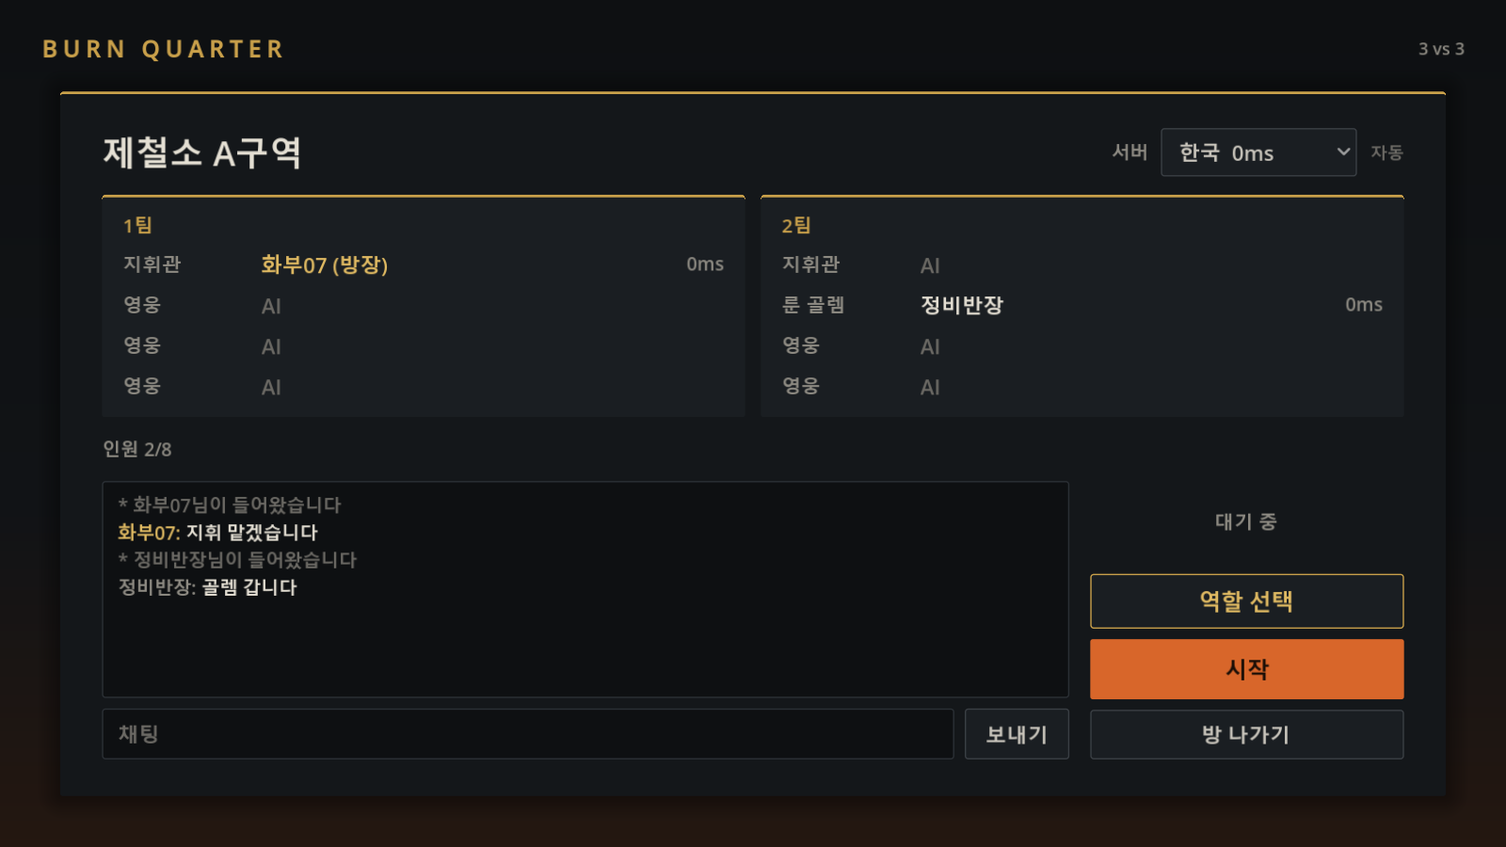
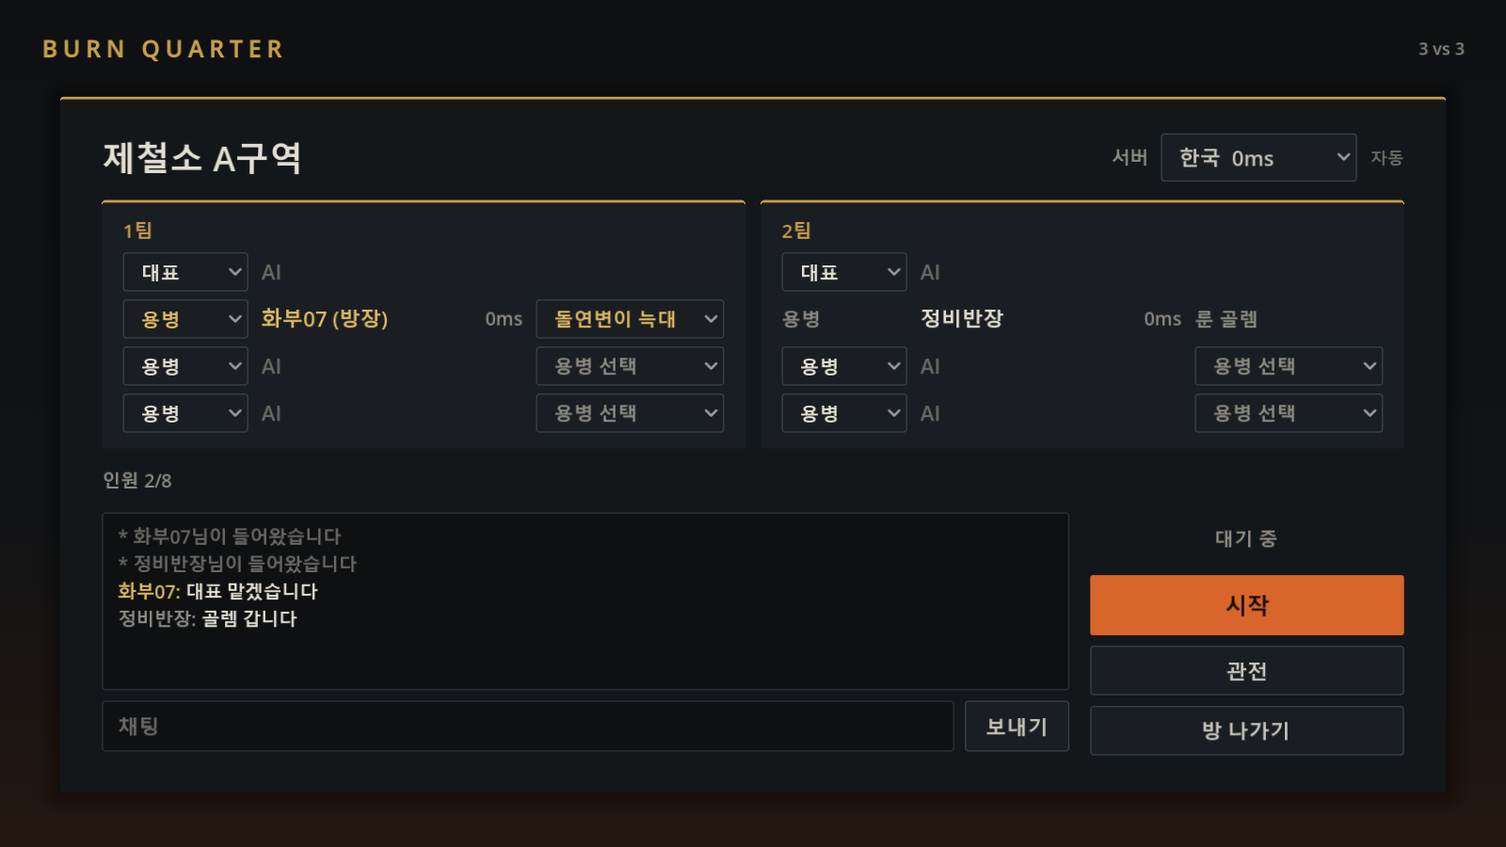
Pick 대표 or 용병 and the hero on each seat row in the room
The role menu under the chat is gone. Each seat row now has a role
picker on the left (대표 = commander, one per team; 용병 = hero) and,
on hero rows, a hero picker on the right that greys out heroes a
teammate already holds. Rows another guest holds show plain labels.
Leaving a seat is 비우기 in one's own row and spectating is a button.

diff --git a/lobby/Room.cs b/lobby/Room.cs
@@ -2,22 +2,21 @@ using Godot;
 using System.Collections.Generic;
 using System.Linq;
 
-// One room: four seats per team, [역할 선택] to take a role, chat, the host's server choice and
-// start. Seats nobody took are played by the AI.
+// One room: four seats per team. Each row picks its role on the left (대표 = commander, one per
+// team; 용병 = hero) and, on hero rows, which hero on the right. Chat, the host's server choice and
+// start sit below. Seats nobody took are played by the AI.
 public partial class Room : Control
 {
     private static readonly uint[] Heroes = { UnitCatalog.HeroTest, UnitCatalog.HeroGolem, UnitCatalog.HeroMarshal };
     private static readonly Color Muted = LobbyPalette.Muted, Faint = LobbyPalette.Faint, Accent = LobbyPalette.BrassLight, Warn = LobbyPalette.Ember;
-    private const int SpectatorItem = 100, StandItem = 101;
+    private const int CommanderItem = 0, HeroItem = 1, StandItem = 2;
     private MatchSession _session;
     private Label _title, _status, _waiting, _regionHint;
     private OptionButton _region;
-    private MenuButton _choose;
-    private Button _start, _leave, _rejoin, _send;
-    private PopupMenu _roles;
+    private Button _spectate, _start, _leave, _rejoin, _send;
     private RichTextLabel _chat;
     private LineEdit _chatInput;
-    private readonly List<(Label role, Label name, Label ping)>[] _seatRows = { new(), new() };
+    private readonly List<SeatRow>[] _seatRows = { new(), new() };
     private int _renderedChat;
     private bool _transitioning, _autoPicked, _autoStarted, _updatingRegion;
 
@@ -61,7 +60,7 @@ public partial class Room : Control
         var chatBox = new VBoxContainer { SizeFlagsHorizontal = SizeFlags.ExpandFill };
         chatBox.AddThemeConstantOverride("separation", 8);
         var chatPanel = new PanelContainer { ThemeTypeVariation = "FieldPanel" };
-        _chat = new RichTextLabel { BbcodeEnabled = false, ScrollFollowing = true, CustomMinimumSize = new Vector2(0, 150), SelectionEnabled = true };
+        _chat = new RichTextLabel { BbcodeEnabled = false, ScrollFollowing = true, CustomMinimumSize = new Vector2(0, 120), SelectionEnabled = true };
         _chat.AddThemeFontSizeOverride("normal_font_size", 14);
         chatPanel.AddChild(_chat);
         chatBox.AddChild(chatPanel);
@@ -82,20 +81,17 @@ public partial class Room : Control
             CustomMinimumSize = new Vector2(240, 40), SizeFlagsVertical = SizeFlags.ExpandFill };
         _status.AddThemeFontSizeOverride("font_size", 15);
         actions.AddChild(_status);
-        _choose = new MenuButton { Text = "역할 선택", ThemeTypeVariation = "BrassButton", CustomMinimumSize = new Vector2(0, 42), Flat = false,
-            TooltipText = "고르지 않으면 시작할 때 남은 자리에 앉습니다." };
-        _roles = _choose.GetPopup();
-        _choose.AboutToPopup += FillRoles;
-        _roles.IdPressed += OnRoleChosen;
+        _spectate = new Button { ThemeTypeVariation = "SecondaryButton", CustomMinimumSize = new Vector2(0, 38) };
+        _spectate.Pressed += () => _session.ChooseRole(0, _session.Room?.Me?.Spectator == true ? "" : "SPECTATOR", 0);
         _start = new Button { Text = "시작", CustomMinimumSize = new Vector2(0, 46) };
         _start.Pressed += () => { if (_session.Room?.State == "countdown") _session.CancelStart(); else _session.StartRoom(); };
         _rejoin = new Button { Text = "경기로 돌아가기", CustomMinimumSize = new Vector2(0, 46) };
         _rejoin.Pressed += () => _session.Rejoin();
         _leave = new Button { Text = "방 나가기", ThemeTypeVariation = "SecondaryButton", CustomMinimumSize = new Vector2(0, 38) };
         _leave.Pressed += () => _session.LeaveRoom();
-        actions.AddChild(_choose);
         actions.AddChild(_start);
         actions.AddChild(_rejoin);
+        actions.AddChild(_spectate);
         actions.AddChild(_leave);
         bottom.AddChild(actions);
         content.AddChild(bottom);
@@ -104,30 +100,59 @@ public partial class Room : Control
         Refresh();
     }
 
+    // One seat row: role picker or label, name, ping, and on hero rows the hero picker or label.
+    // Pickers show on a row this guest may take; another guest's row shows plain labels.
+    private sealed class SeatRow
+    {
+        public OptionButton RoleBox, HeroBox;
+        public Label Role, Name, Ping, Hero;
+    }
+
     private Control TeamPanel(uint team)
     {
         var panel = new PanelContainer { ThemeTypeVariation = "PlatePanel", SizeFlagsHorizontal = SizeFlags.ExpandFill };
         var rows = new VBoxContainer();
-        rows.AddThemeConstantOverride("separation", 8);
+        rows.AddThemeConstantOverride("separation", 6);
         rows.AddChild(LobbyPalette.Caption($"{team}팀", 15, LobbyPalette.Brass));
         for (int i = 0; i < 4; i++)
         {
-            var row = new HBoxContainer();
+            var row = new HBoxContainer { CustomMinimumSize = new Vector2(0, 30) };
             row.AddThemeConstantOverride("separation", 10);
-            var role = LobbyPalette.Caption("", 15);
-            role.CustomMinimumSize = new Vector2(96, 0);
-            var name = new Label { SizeFlagsHorizontal = SizeFlags.ExpandFill, ClipText = true, TextOverrunBehavior = TextServer.OverrunBehavior.TrimEllipsis };
-            var ping = LobbyPalette.Caption("", 14);
-            ping.CustomMinimumSize = new Vector2(64, 0);
-            ping.HorizontalAlignment = HorizontalAlignment.Right;
-            row.AddChild(role);
-            row.AddChild(name);
-            row.AddChild(ping);
+            var seat = new SeatRow
+            {
+                RoleBox = Picker(96, "대표는 팀에 한 명입니다. 고르지 않으면 시작할 때 남은 자리에 앉습니다."),
+                Role = Cell(96),
+                Name = new Label { SizeFlagsHorizontal = SizeFlags.ExpandFill, SizeFlagsVertical = SizeFlags.ShrinkCenter, ClipText = true, TextOverrunBehavior = TextServer.OverrunBehavior.TrimEllipsis },
+                Ping = LobbyPalette.Caption("", 14),
+                HeroBox = Picker(144, "같은 팀에서 한 용병은 한 명만 고를 수 있습니다."),
+                Hero = Cell(144),
+            };
+            seat.Ping.CustomMinimumSize = new Vector2(52, 0);
+            seat.Ping.HorizontalAlignment = HorizontalAlignment.Right;
+            seat.Ping.SizeFlagsVertical = SizeFlags.ShrinkCenter;
+            uint rowTeam = team;
+            seat.RoleBox.GetPopup().IdPressed += id => OnRoleChosen(rowTeam, (int)id);
+            seat.HeroBox.GetPopup().IdPressed += id => _session.ChooseRole(rowTeam, "HERO", (uint)id);
+            foreach (var cell in new Control[] { seat.RoleBox, seat.Role, seat.Name, seat.Ping, seat.HeroBox, seat.Hero }) row.AddChild(cell);
             rows.AddChild(row);
-            _seatRows[team - 1].Add((role, name, ping));
+            _seatRows[team - 1].Add(seat);
         }
         panel.AddChild(rows);
         return panel;
+    }
+
+    private static OptionButton Picker(float width, string tooltip) => new()
+    {
+        ThemeTypeVariation = "SeatButton", CustomMinimumSize = new Vector2(width, 30), TooltipText = tooltip,
+        SizeFlagsVertical = SizeFlags.ShrinkCenter, FitToLongestItem = false,
+    };
+
+    private static Label Cell(float width)
+    {
+        var label = LobbyPalette.Caption("", 15);
+        label.CustomMinimumSize = new Vector2(width, 0);
+        label.SizeFlagsVertical = SizeFlags.ShrinkCenter;
+        return label;
     }
 
     private void Refresh()
@@ -146,21 +171,13 @@ public partial class Room : Control
         bool waiting = room.State == "waiting";
         _title.Text = room.Name;
         RefreshRegions(room);
-        foreach (var seat in room.Seats)
-        {
-            var (role, name, ping) = _seatRows[seat.Team - 1][seat.Index % 4];
-            var member = seat.PlayerId != null ? room.Member(seat.PlayerId) : null;
-            role.Text = seat.Role == "COMMANDER" ? "지휘관" : member != null ? UnitCatalog.Name(seat.Hero) : "영웅";
-            name.Text = member == null ? "AI" : member.Name + (member.Id == room.HostId ? " (방장)" : "");
-            name.AddThemeColorOverride("font_color", member == null ? Faint : member.Id == room.You ? Accent : LobbyPalette.Text);
-            ping.Text = member == null ? "" : member.Ping < 0 ? "-" : $"{member.Ping}ms";
-            ping.AddThemeColorOverride("font_color", member != null && member.Ping >= 150 ? Warn : Muted);
-        }
+        foreach (var seat in room.Seats) RefreshSeat(room, seat, waiting && me != null);
         var unseated = room.Members.Where(m => m.Seat < 0 && !m.Spectator).Select(m => m.Name).ToArray();
         var spectators = room.Members.Where(m => m.Spectator).Select(m => m.Name).ToArray();
         _waiting.Text = $"인원 {room.Members.Count}/8" + (unseated.Length > 0 ? $" · 선택 전: {string.Join(", ", unseated)}" : "") +
             (spectators.Length > 0 ? $" · 관전: {string.Join(", ", spectators)}" : "");
-        _choose.Disabled = !waiting;
+        _spectate.Text = me?.Spectator == true ? "관전 취소" : "관전";
+        _spectate.Disabled = !waiting;
         _start.Visible = room.IsHost;
         _start.Text = room.State == "countdown" ? "시작 취소" : "시작";
         _start.Disabled = room.State is not ("waiting" or "countdown");
@@ -205,50 +222,71 @@ public partial class Room : Control
         _updatingRegion = false;
     }
 
-    // [역할 선택]: each team's commander and heroes, then spectating. A role another guest holds
-    // is greyed out; the server refuses it anyway. Filled each time the menu opens.
-    private void FillRoles()
+    private void RefreshSeat(RoomState room, RoomSeat seat, bool canChoose)
     {
-        _roles.Clear();
+        var row = _seatRows[seat.Team - 1][seat.Index % 4];
+        var member = seat.PlayerId != null ? room.Member(seat.PlayerId) : null;
+        bool mine = seat.PlayerId == room.You, hero = seat.Role == "HERO";
+        bool open = canChoose && (member == null || mine);
+        row.Name.Text = member == null ? "AI" : member.Name + (member.Id == room.HostId ? " (방장)" : "");
+        row.Name.AddThemeColorOverride("font_color", member == null ? Faint : mine ? Accent : LobbyPalette.Text);
+        row.Ping.Text = member == null ? "" : member.Ping < 0 ? "-" : $"{member.Ping}ms";
+        row.Ping.AddThemeColorOverride("font_color", member != null && member.Ping >= 150 ? Warn : Muted);
+
+        row.Role.Text = hero ? "용병" : "대표";
+        row.Role.Visible = !open;
+        row.RoleBox.Visible = open;
+        if (open && !row.RoleBox.GetPopup().Visible)
+        {
+            var commander = room.Seats.First(s => s.Team == seat.Team && s.Role == "COMMANDER");
+            row.RoleBox.Clear();
+            row.RoleBox.AddItem("대표", CommanderItem);
+            row.RoleBox.SetItemDisabled(0, commander.PlayerId != null && commander.PlayerId != room.You);
+            row.RoleBox.AddItem("용병", HeroItem);
+            row.RoleBox.SetItemDisabled(1, FreeHero(room, seat.Team) == 0);
+            if (mine) row.RoleBox.AddItem("비우기", StandItem);
+            row.RoleBox.Select(hero ? 1 : 0);
+        }
+        row.RoleBox.AddThemeColorOverride("font_color", mine ? Accent : LobbyPalette.Text);
+
+        row.Hero.Text = hero && member != null ? UnitCatalog.Name(seat.Hero) : "";
+        row.Hero.Visible = !(hero && open);
+        row.HeroBox.Visible = hero && open;
+        if (hero && open && !row.HeroBox.GetPopup().Visible)
+        {
+            row.HeroBox.Clear();
+            for (int i = 0; i < Heroes.Length; i++)
+            {
+                row.HeroBox.AddItem(UnitCatalog.Name(Heroes[i]), (int)Heroes[i]);
+                row.HeroBox.SetItemDisabled(i, TakenByOther(room, seat.Team, Heroes[i]));
+            }
+            row.HeroBox.Select(mine ? System.Array.IndexOf(Heroes, seat.Hero) : -1);
+            if (!mine) row.HeroBox.Text = "용병 선택";
+        }
+        row.HeroBox.AddThemeColorOverride("font_color", mine ? Accent : Muted);
+    }
+
+    private static bool TakenByOther(RoomState room, uint team, uint hero) =>
+        room.Seats.Any(s => s.Team == team && s.Role == "HERO" && s.PlayerId != null && s.PlayerId != room.You && s.Hero == hero);
+
+    // The hero a guest gets by choosing 용병 on a row: the one they already play in this team,
+    // else the first nobody else in the team holds. 0 when the team has no hero seat left for them.
+    private static uint FreeHero(RoomState room, uint team)
+    {
+        var heroSeats = room.Seats.Where(s => s.Team == team && s.Role == "HERO").ToArray();
+        var mine = heroSeats.FirstOrDefault(s => s.PlayerId == room.You);
+        if (mine != null) return mine.Hero;
+        if (heroSeats.All(s => s.PlayerId != null)) return 0;
+        return Heroes.FirstOrDefault(h => !TakenByOther(room, team, h));
+    }
+
+    private void OnRoleChosen(uint team, int id)
+    {
         var room = _session.Room;
         if (room == null) return;
-        for (uint team = 1; team <= 2; team++)
-        {
-            _roles.AddSeparator($"{team}팀");
-            var seats = room.Seats.Where(s => s.Team == team).ToArray();
-            var commander = seats.First(s => s.Role == "COMMANDER");
-            AddRole("지휘관", Id(team, 0), commander.PlayerId != null && commander.PlayerId != room.You);
-            var heroSeats = seats.Where(s => s.Role == "HERO").ToArray();
-            bool mineHere = heroSeats.Any(s => s.PlayerId == room.You);
-            bool free = mineHere || heroSeats.Any(s => s.PlayerId == null);
-            foreach (uint hero in Heroes)
-            {
-                bool taken = heroSeats.Any(s => s.PlayerId != null && s.PlayerId != room.You && s.Hero == hero);
-                AddRole(UnitCatalog.Name(hero), Id(team, hero), taken || !free);
-            }
-        }
-        _roles.AddSeparator();
-        AddRole("관전", SpectatorItem, false);
-        AddRole("선택 취소", StandItem, false);
-    }
-
-    private void AddRole(string text, int id, bool disabled)
-    {
-        _roles.AddItem(text, id);
-        _roles.SetItemDisabled(_roles.ItemCount - 1, disabled);
-    }
-
-    private static int Id(uint team, uint hero) => (int)(team * 1000 + hero);
-
-    private void OnRoleChosen(long id)
-    {
-        if (id == SpectatorItem) _session.ChooseRole(0, "SPECTATOR", 0);
-        else if (id == StandItem) _session.ChooseRole(0, "", 0);
-        else
-        {
-            uint team = (uint)(id / 1000), hero = (uint)(id % 1000);
-            _session.ChooseRole(team, hero == 0 ? "COMMANDER" : "HERO", hero);
-        }
+        if (id == StandItem) _session.ChooseRole(0, "", 0);
+        else if (id == CommanderItem) _session.ChooseRole(team, "COMMANDER", 0);
+        else if (FreeHero(room, team) is uint hero and not 0) _session.ChooseRole(team, "HERO", hero);
     }
 
     private void RenderChat()

diff --git a/lobby/Loading.cs b/lobby/Loading.cs
@@ -1,4 +1,4 @@
-using Godot;
+using Godot;
 
 // Loads the real game under an overlay, keeping its input paused until every
 // admitted client has synchronized the map. Main owns its existing connection.
@@ -31,7 +31,7 @@ public partial class Loading : Control
         foreach (string name in new[] { "Background", "Header", "Center" }) GetNode(name).Reparent(frame);
         if (_session.Match == null) { Fail("경기 정보가 없습니다. 방에서 다시 시작해 주세요."); return; }
         var match = _session.Match;
-        GetNode<Label>("%Description").Text = match.Role == "SPECTATOR" ? "AI 영웅 3 vs 3 · 지휘관 각 1명 · 전체 맵 관전" : $"{match.Team}팀 · {(match.Role == "HERO" ? "영웅" : "지휘관")} · 플레이어 {match.Players - match.Bots}명 + AI {match.Bots}명";
+        GetNode<Label>("%Description").Text = match.Role == "SPECTATOR" ? "AI 용병 3 vs 3 · 대표 각 1명 · 전체 맵 관전" : $"{match.Team}팀 · {(match.Role == "HERO" ? "용병" : "대표")} · 플레이어 {match.Players - match.Bots}명 + AI {match.Bots}명";
         if (ResourceLoader.LoadThreadedRequest(GamePath) != Error.Ok) Fail("전장 리소스를 불러오지 못했습니다.");
     }
 

diff --git a/CHANGELOG.md b/CHANGELOG.md
@@ -5,7 +5,7 @@
 
 ## 2026-10-20
 
-- 로비 화면을 게임 분위기에 맞게 다시 꾸몄습니다([지인 테스트 안내](docs/friend-test.md#게스트-입장과-방), 사용자 요청). 청록 바탕과 연두 버튼 대신 그을린 철 바탕, 황동 제목·테두리, 용광로 주황의 주요 버튼 세 가지 색만 씁니다(`lobby/MatchScreen.tscn` 테마, `lobby/LobbyPalette.cs`). 입장 화면은 큰 **BURN QUARTER** 아래 이름·서버 칸과 **입장** 버튼만 두고, 방 목록은 줄마다 방 이름·방장·서버·인원·상태·**입장**을 한 줄로 보여 줍니다. 문구를 줄였습니다: **게스트로 입장**→**입장**, **입장 화면으로**→**나가기**, **선택**→**역할 선택**, **진행 중인 경기로 돌아가기**→**경기로 돌아가기**, 방 상태는 "대기 중"·"방장 대기 중"·"N초 후 시작"처럼 짧게 씁니다. "선택하지 않으면 남은 자리에 앉습니다" 안내는 **역할 선택** 버튼의 툴팁으로 옮겼습니다. 팀 칸은 진영색 대신 황동 띠로 구분하고, 핑은 150ms 이상일 때만 주황으로 표시합니다. 로딩 화면이 테마를 잃고 Godot 기본 모양으로 보이던 문제도 고쳤습니다(오버레이 `CanvasLayer` 아래로 옮기면서 테마 상속이 끊겼습니다). 경기 결과 화면도 같은 테마를 씁니다. 방 생성·입장·역할·채팅·시작 흐름은 그대로이며 서버 변경은 없습니다.
+- 로비 화면을 게임 분위기에 맞게 다시 꾸몄습니다([지인 테스트 안내](docs/friend-test.md#게스트-입장과-방), 사용자 요청). 청록 바탕과 연두 버튼 대신 그을린 철 바탕, 황동 제목·테두리, 용광로 주황의 주요 버튼 세 가지 색만 씁니다(`lobby/MatchScreen.tscn` 테마, `lobby/LobbyPalette.cs`). 입장 화면은 큰 **BURN QUARTER** 아래 이름·서버 칸과 **입장** 버튼만 두고, 방 목록은 줄마다 방 이름·방장·서버·인원·상태·**입장**을 한 줄로 보여 줍니다. 문구를 줄였습니다: **게스트로 입장**→**입장**, **입장 화면으로**→**나가기**, **진행 중인 경기로 돌아가기**→**경기로 돌아가기**, 방 상태는 "대기 중"·"방장 대기 중"·"N초 후 시작"처럼 짧게 씁니다. 방에서는 아래쪽 **선택** 메뉴 대신 자리 줄마다 왼쪽 칸에서 **대표**(지휘관, 팀에 한 명)나 **용병**(영웅)을 고르고, 용병 줄 오른쪽 칸에서 어떤 용병인지 고릅니다(같은 팀 중복 불가). 이미 다른 사람이 앉은 줄은 글자로만 보입니다. 자리 비우기는 내 줄의 **비우기**, 관전은 아래 **관전** 버튼입니다. 로딩 화면 설명도 "1팀 · 용병"처럼 대표·용병으로 씁니다(인게임 화면의 이름은 그대로입니다). "선택하지 않으면 남은 자리에 앉습니다" 안내는 자리 칸의 툴팁으로 옮겼습니다. 팀 칸은 진영색 대신 황동 띠로 구분하고, 핑은 150ms 이상일 때만 주황으로 표시합니다. 로딩 화면이 테마를 잃고 Godot 기본 모양으로 보이던 문제도 고쳤습니다(오버레이 `CanvasLayer` 아래로 옮기면서 테마 상속이 끊겼습니다). 경기 결과 화면도 같은 테마를 씁니다. 방 생성·입장·역할·채팅·시작 흐름은 그대로이며 서버 변경은 없습니다.
 
 ## 2026-10-19
 

diff --git a/docs/friend-test.md b/docs/friend-test.md
@@ -4,14 +4,14 @@
 
 로그인은 없습니다. 첫 화면에서 이름과 로비 주소를 정하고 **입장**합니다. 이름·주소와 로비 세션은 `user://network.cfg`에 저장되어, 게임을 다시 켜도 같은 로비면 들어가 있던 방과 진행 중인 경기로 돌아올 수 있습니다.
 
-입장·방 목록·방·로딩 화면은 그을린 철 바탕에 황동 제목·테두리, 용광로 주황의 주요 버튼(입장·방 만들기·시작) 세 가지 색만 씁니다([아트 디렉션](art-direction.md#효과와-ui)). 긴 설명 대신 짧은 라벨을 두고, 역할 선택 안내와 서버 선택 규칙은 버튼에 마우스를 올리면 나옵니다.
+입장·방 목록·방·로딩 화면은 그을린 철 바탕에 황동 제목·테두리, 용광로 주황의 주요 버튼(입장·방 만들기·시작) 세 가지 색만 씁니다([아트 디렉션](art-direction.md#효과와-ui)). 긴 설명 대신 짧은 라벨을 두고, 자리 선택 안내와 서버 선택 규칙은 칸에 마우스를 올리면 나옵니다.
 
 ![입장](images/lobby-entry.png)
 ![방 목록](images/lobby-rooms.png)
 ![방](images/lobby-room.png)
 
 - **로비**: 방 목록(방 이름·방장·인원·서버·대기/진행 중)과 **방 만들기**, **새로고침**이 있습니다. 목록은 새로고침을 누를 때만 다시 받습니다. 꽉 찼거나 게임 중인 방에는 들어갈 수 없습니다.
-- **방**: 1팀·2팀이 각각 지휘관 1칸과 영웅 3칸입니다. **역할 선택**을 누르면 팀별 지휘관·늑대·골렘·사령관과 관전, 선택 취소가 나옵니다. 같은 팀에서 이미 누가 고른 역할은 고를 수 없고, 다른 팀은 같은 영웅을 고를 수 있습니다. 아무도 앉지 않은 칸은 **AI**로 보입니다.
+- **방**: 1팀·2팀이 각각 대표(지휘관) 1칸과 용병(영웅) 3칸입니다. 비어 있거나 내가 앉은 줄의 왼쪽 칸에서 **대표**나 **용병**을 고르고, 용병 줄 오른쪽 칸에서 늑대·골렘·사령관 중 하나를 고릅니다. 대표는 팀에 한 명이고, 같은 팀에서 이미 누가 고른 용병은 고를 수 없습니다. 다른 팀은 같은 용병을 고를 수 있습니다. 내 줄 왼쪽 칸의 **비우기**로 자리를 비우고, 아래 **관전**으로 관전합니다(다시 누르면 관전 취소). 아무도 앉지 않은 칸은 **AI**로 보입니다.
 - **채팅**: 방 안에서만 쓰는 간단한 채팅입니다(200자). 입장·퇴장·방장 변경·서버 변경·시작은 회색 안내 줄로 보입니다. 인게임 채팅과 핑(신호) 기능은 아직 없습니다.
 - **서버**: 방장이 고릅니다. 기본은 방장의 핑이 낮은 쪽이고, 방장이 직접 고르면 그대로 둡니다. 이름 옆 숫자는 각자 선택된 서버까지의 핑입니다.
 - **시작**: 방장이 **시작**을 누르면 5초 카운트다운 뒤 모두 로딩 화면으로 넘어갑니다. 카운트다운 중에는 자리를 바꿀 수 없고 방장이 **시작 취소**를 누를 수 있습니다. 아직 고르지 않은 사람은 남은 칸에 앉고, 빈칸은 AI가 맡습니다. 혼자 방을 만들어 시작하면 혼자 연습, 관전을 고르고 시작하면 AI끼리 경기 관전입니다.

diff --git a/docs/game-modes.md b/docs/game-modes.md
@@ -18,7 +18,7 @@
 
 ## 로비·방과 로딩
 
-게스트 입장·방 목록(`lobby/Lobby.tscn`), 방(`lobby/Room.tscn`), 로딩은 `lobby/MatchScreen.tscn` 레이아웃을 공유하며 `network/MatchSession.cs`가 로비 세션·방·입장 정보를 유지합니다. 방에서는 팀별 지휘관·영웅 칸을 **역할 선택**으로 고르고, 채팅하고, 방장이 서버를 고른 뒤 시작합니다. 시작하면 5초 뒤 로딩으로 넘어갑니다. 게임 서버는 판마다 새 프로세스로 실행하며 여러 방이 동시에 경기할 수 있습니다. 인게임의 `방으로 나가기` 버튼으로 방에 돌아가며, 나간 경기가 아직 진행 중이면 방의 **경기로 돌아가기**로 다시 들어갑니다. 경기 중 연결이 끊기면 그 자리에서 다시 연결하며, 그동안은 AI가 대신 조종합니다([지인 테스트 안내](friend-test.md#게스트-입장과-방)).
+게스트 입장·방 목록(`lobby/Lobby.tscn`), 방(`lobby/Room.tscn`), 로딩은 `lobby/MatchScreen.tscn` 레이아웃을 공유하며 `network/MatchSession.cs`가 로비 세션·방·입장 정보를 유지합니다. 방에서는 팀별 자리 줄에서 **대표**(지휘관)나 **용병**(영웅)과 용병 종류를 고르고, 채팅하고, 방장이 서버를 고른 뒤 시작합니다. 시작하면 5초 뒤 로딩으로 넘어갑니다. 게임 서버는 판마다 새 프로세스로 실행하며 여러 방이 동시에 경기할 수 있습니다. 인게임의 `방으로 나가기` 버튼으로 방에 돌아가며, 나간 경기가 아직 진행 중이면 방의 **경기로 돌아가기**로 다시 들어갑니다. 경기 중 연결이 끊기면 그 자리에서 다시 연결하며, 그동안은 AI가 대신 조종합니다([지인 테스트 안내](friend-test.md#게스트-입장과-방)).
 
 ## 승패와 AI 연습
 
